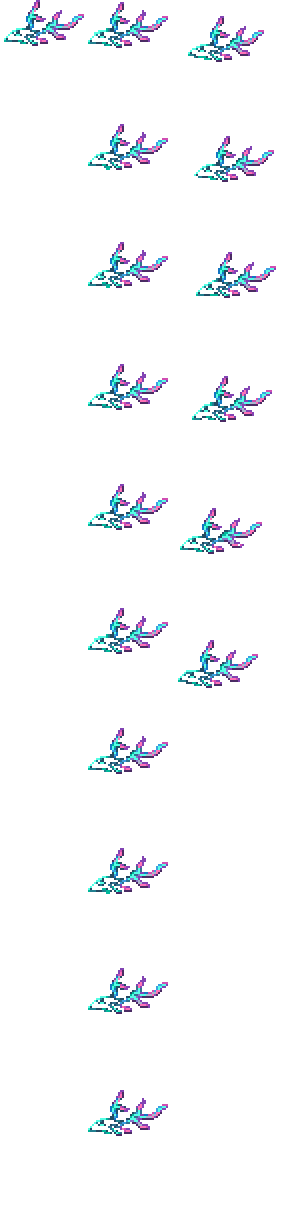
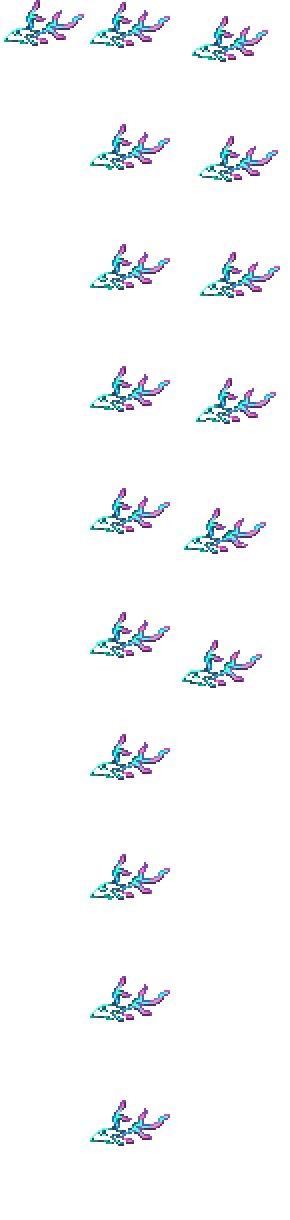
Aurora Saddle fixes

diff --git a/Items/Equipment/AuroraSaddle/AuroraSaddle.cs b/Items/Equipment/AuroraSaddle/AuroraSaddle.cs
@@ -116,7 +116,7 @@ namespace SpiritMod.Items.Equipment.AuroraSaddle
 
 			if (Main.netMode != NetmodeID.Server)
 			{
-				MountData.textureWidth = MountData.backTexture.Width() /3;
+				MountData.textureWidth = MountData.backTexture.Width() / 3;
 				MountData.textureHeight = MountData.backTexture.Height() / 10;
 			}
 		}
@@ -130,7 +130,7 @@ namespace SpiritMod.Items.Equipment.AuroraSaddle
 
 			AuroraPlayer modplayer = player.GetModPlayer<AuroraPlayer>();
 
-			for (int i = (modplayer.auroraoldposition.Length - 1); i >= 0; i--)
+			for (int i = modplayer.auroraoldposition.Length - 1; i >= 0; i--)
 			{
 				modplayer.auroraoldposition[i] = player.Center;
 				modplayer.auroraoldrotation[i] = player.fullRotation;
@@ -159,7 +159,7 @@ namespace SpiritMod.Items.Equipment.AuroraSaddle
 		{
 			AuroraPlayer modplayer = player.GetModPlayer<AuroraPlayer>();
 
-			for (int i = (modplayer.auroraoldposition.Length - 1); i > 0; i--)
+			for (int i = modplayer.auroraoldposition.Length - 1; i > 0; i--)
 			{
 				modplayer.auroraoldposition[i] = modplayer.auroraoldposition[i - 1];
 				modplayer.auroraoldrotation[i] = modplayer.auroraoldrotation[i - 1];
@@ -174,7 +174,7 @@ namespace SpiritMod.Items.Equipment.AuroraSaddle
 			if (Main.rand.NextBool(20) && !Main.dedServ)
 				MakeStar(Main.rand.NextFloat(0.1f, 0.2f), player.Center);
 
-			if ((player.velocity.Y != 0 || player.oldVelocity.Y != 0))
+			if (player.velocity.Y != 0 || player.oldVelocity.Y != 0)
 			{
 				int direction = (velocity == 0) ? 0 :
 					(player.direction == Math.Sign(player.velocity.X)) ? 1 : -1;
@@ -191,20 +191,20 @@ namespace SpiritMod.Items.Equipment.AuroraSaddle
 			float velocity = Math.Abs(drawPlayer.velocity.X);
 			AuroraPlayer modplayer = drawPlayer.GetModPlayer<AuroraPlayer>();
 
-			//ripped from stag npc drawcode
+			//modified from stag npc drawcode
 			int frameHeight = texture.Height / 10;
-			int frameWidth = texture.Width / 3;
+			int frameWidth = 86;
 			int frameX = 0;
 			int frameY = 0;
 			float drawYOffset = -18;
 			bool trail = false;
 
-			if (velocity > 6 || drawPlayer.velocity.Y != 0 || drawPlayer.oldVelocity.Y != 0)
+			if (velocity > 6 || drawPlayer.velocity.Y != 0 || drawPlayer.oldVelocity.Y != 0) //Running
 			{
-				frameX = frameWidth * 2 - 20;
-				frameY = (frameHeight + 6) * (int)(Main.GameUpdateCount / 6 % 6) - 2;
-				frameHeight += 6;
+				frameX = frameWidth * 2;
+				frameHeight += 4;
 				frameWidth += 32;
+				frameY = frameHeight * (int)(Main.GameUpdateCount / 6 % 6);
 
 				if (frameY > 6 * frameHeight)
 					frameY = 0;
@@ -212,18 +212,16 @@ namespace SpiritMod.Items.Equipment.AuroraSaddle
 				if (drawPlayer.velocity.Y != 0 || drawPlayer.oldVelocity.Y != 0)
 					frameY = (4 * frameHeight) - 2;
 
-				drawYOffset = -24;
+				drawYOffset = -20;
 				trail = true;
 			}
-			else if (velocity > 0)
+			else if (velocity > 0) //Walking
 			{
-				frameX = frameWidth - 12;
-				frameY = (frameHeight + 1) * (int)((Main.GameUpdateCount / 8) % 10);
-
-				drawYOffset = -20;
+				frameX = frameWidth;
+				frameY = frameHeight * (int)(Main.GameUpdateCount / 8 % 10);
 			}
 
-			Rectangle sourceRectangle = new Rectangle(frameX, frameY, frameWidth - 12, frameHeight);
+			Rectangle sourceRectangle = new Rectangle(frameX, frameY, frameWidth - 2, frameHeight - 2);
 
 			void AddDrawDataWithMountShader(DrawData data)
 			{

diff --git a/GlobalClasses/Players/DashPlayer.cs b/GlobalClasses/Players/DashPlayer.cs
@@ -152,7 +152,7 @@ internal class DashPlayer : ModPlayer
 		for (int i = 0; i < 2; i++)
 		{
 			AuroraStagMount.MakeStar(Main.rand.NextFloat(0.1f, 0.2f), Player.Center);
-			Dust dust = Dust.NewDustDirect(Player.position - new Vector2(40, 0), Player.width + 80, Player.height, DustID.RainbowTorch, Player.velocity.X * Main.rand.NextFloat(), 0, 200, AuroraStagMount.AuroraColor * 0.8f, Main.rand.NextFloat(0.9f, 1.3f));
+			Dust dust = Dust.NewDustDirect(Player.position - new Vector2(40, 0), Player.width + 80, Player.height, DustID.RainbowTorch, Player.velocity.X * Main.rand.NextFloat(), 0, 200, AuroraStagMount.AuroraColor * 0.8f, Main.rand.NextFloat(0.8f, 1.1f));
 			dust.fadeIn = 0.4f;
 			dust.noGravity = true;
 			if (Player.miscDyes[3] != null && Player.miscDyes[3].active)
@@ -296,7 +296,7 @@ internal class DashPlayer : ModPlayer
 				for (int i = 0; i < 25; i++)
 					AuroraStagMount.MakeStar(Main.rand.NextFloat(0.4f, 0.6f), Player.Center);
 
-				_dashTimer = 120;
+				_dashTimer = 20;
 				break;
 		}
 

diff --git a/NPCs/AuroraStag/AuroraStag.cs b/NPCs/AuroraStag/AuroraStag.cs
@@ -1,7 +1,5 @@
 using Microsoft.Xna.Framework;
 using Microsoft.Xna.Framework.Graphics;
-using SpiritMod.Dusts;
-using SpiritMod.Items;
 using SpiritMod.Items.Equipment.AuroraSaddle;
 using SpiritMod.Mechanics.EventSystem;
 using SpiritMod.Mechanics.EventSystem.Events;
@@ -9,8 +7,6 @@ using SpiritMod.Mechanics.QuestSystem;
 using SpiritMod.Mechanics.QuestSystem.Quests;
 using SpiritMod.Particles;
 using System;
-using System.Collections.Generic;
-using System.IO;
 using Terraria;
 using Terraria.Audio;
 using Terraria.GameContent;
@@ -108,7 +104,7 @@ namespace SpiritMod.NPCs.AuroraStag
 			return 0.0015f;
 		}
 
-		private Color AuroraColor => Color.Lerp(new Color(85, 255, 229), new Color(28, 155, 255), Main.rand.NextFloat());
+		private static Color AuroraColor => Color.Lerp(new Color(85, 255, 229), new Color(28, 155, 255), Main.rand.NextFloat());
 
 		public override void AI()
 		{
